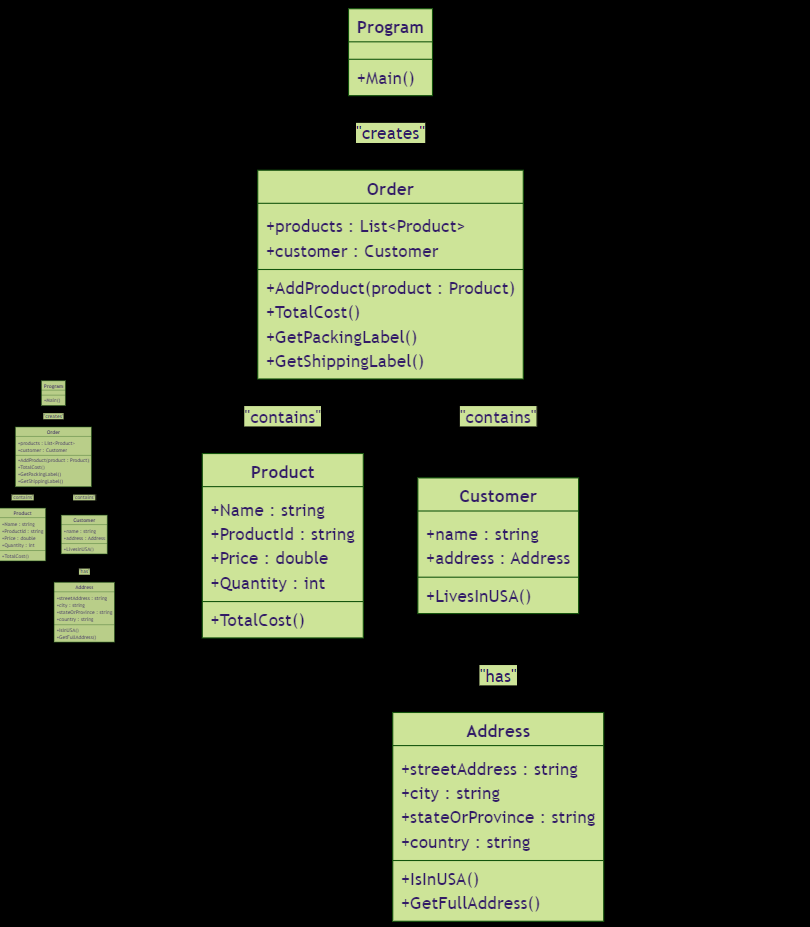
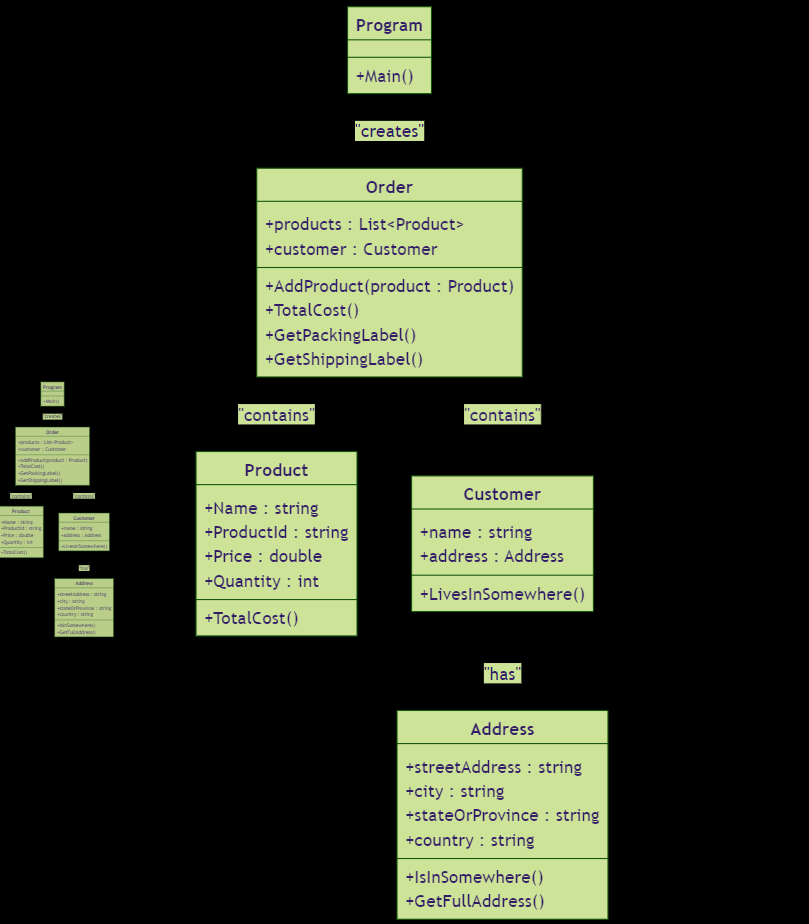
Foundation Program #2—Encapsulation

diff --git a/foundation/Foundation2/Order.cs b/foundation/Foundation2/Order.cs
@@ -5,7 +5,7 @@ public class Order
 {
     private List<Product> products;
     private Customer customer;
-    private const double USA_ShippingCost = 5.0;
+    private const double Country_ShippingCost = 5.0;
     private const double International_ShippingCost = 35.0;
 
     public Order(Customer customer)
@@ -28,7 +28,7 @@ public class Order
             total += product.TotalCost();
         }
 
-        double shippingCost = customer.LivesInUSA() ? USA_ShippingCost : International_ShippingCost;
+        double shippingCost = customer.LivesInSomewhere() ? Country_ShippingCost : International_ShippingCost;
         total += shippingCost;
 
         return total;

diff --git a/foundation/Foundation2/Address.cs b/foundation/Foundation2/Address.cs
@@ -13,9 +13,9 @@ public class Address
         this.country = country;
     }
 
-    public bool IsInUSA()
+    public bool IsInSomewhere()
     {
-        return country.ToLower() == "usa";
+        return country.ToLower() == "place";
     }
 
     public string GetFullAddress()

diff --git a/foundation/Foundation2/Customer.cs b/foundation/Foundation2/Customer.cs
@@ -9,9 +9,9 @@ public class Customer
         this.address = address;
     }
 
-    public bool LivesInUSA()
+    public bool LivesInSomewhere()
     {
-        return address.IsInUSA();
+        return address.IsInSomewhere();
     }
 
     public string Name => name;
